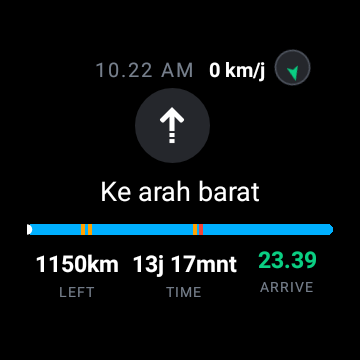
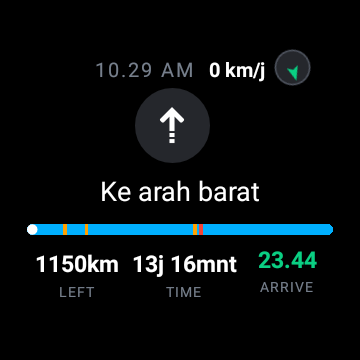
Keep the position marker whole at the ends of the bar
The marker is a circle drawn at the point reached along the route, so at the
start of a trip its centre sits at x=0 and the view clips away the half that
falls outside. It drew as a half circle, which reads as something rendering
badly rather than as "you are at the beginning" - and the beginning is exactly
when a route is most likely to be looked at.

It is now held a full radius in from either end, so it stays a circle whether
the trip has just started or is about to finish.

diff --git a/service/src/main/java/com/amazmod/service/ui/RouteProgressView.java b/service/src/main/java/com/amazmod/service/ui/RouteProgressView.java
@@ -160,9 +160,14 @@ public class RouteProgressView extends View {
         canvas.restoreToCount(saved);
 
         if (travelledX >= 0) {
+            // Kept a full radius away from either end. At the start of a trip the marker sits at
+            // x=0 and half of it falls outside the view, which draws as a half circle and reads as
+            // a rendering fault rather than as "you are at the beginning".
+            final float markerX = Math.max(markerRadius, Math.min(width - markerRadius, travelledX));
+
             paint.setColor(MARKER_COLOUR);
             paint.setAlpha(255);
-            canvas.drawCircle(travelledX, height / 2f, markerRadius, paint);
+            canvas.drawCircle(markerX, height / 2f, markerRadius, paint);
         }
     }
 }
